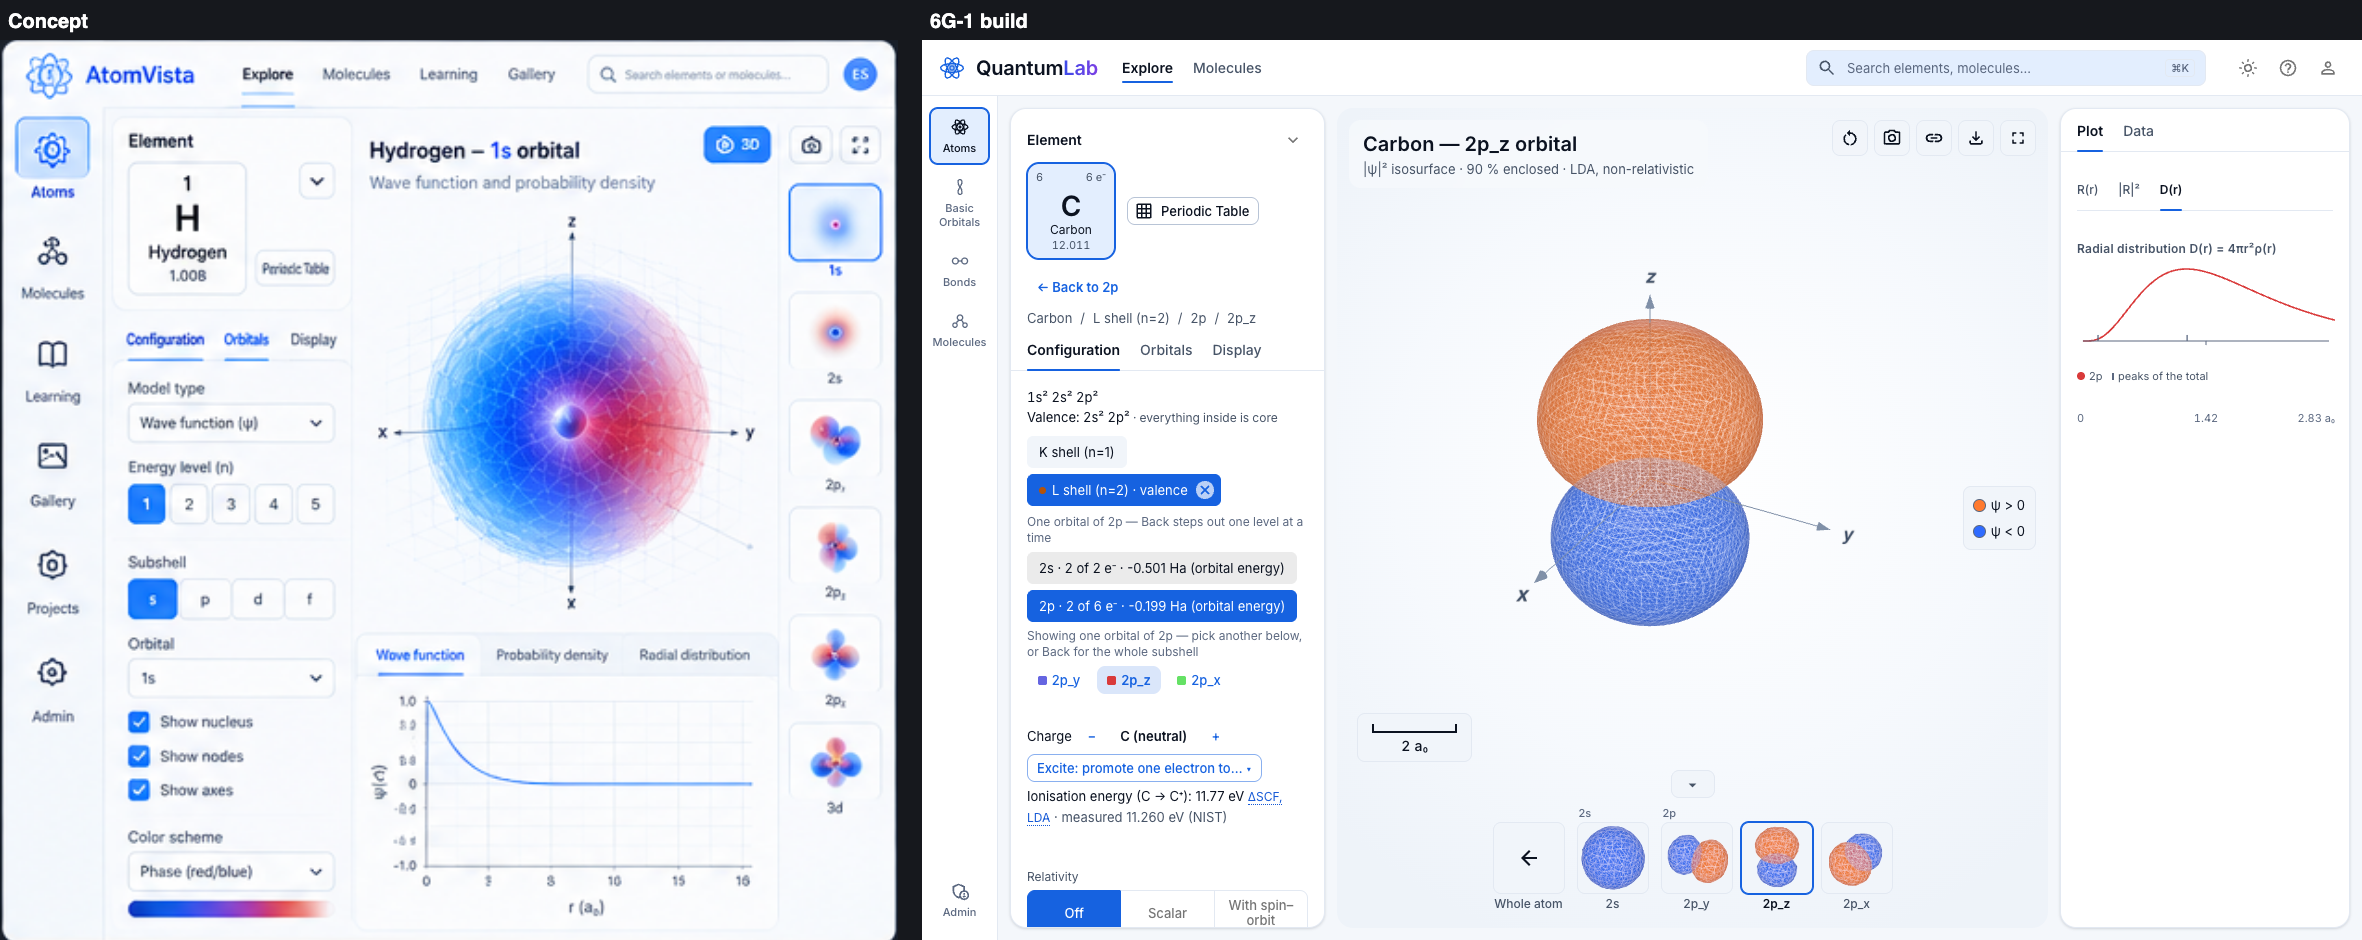
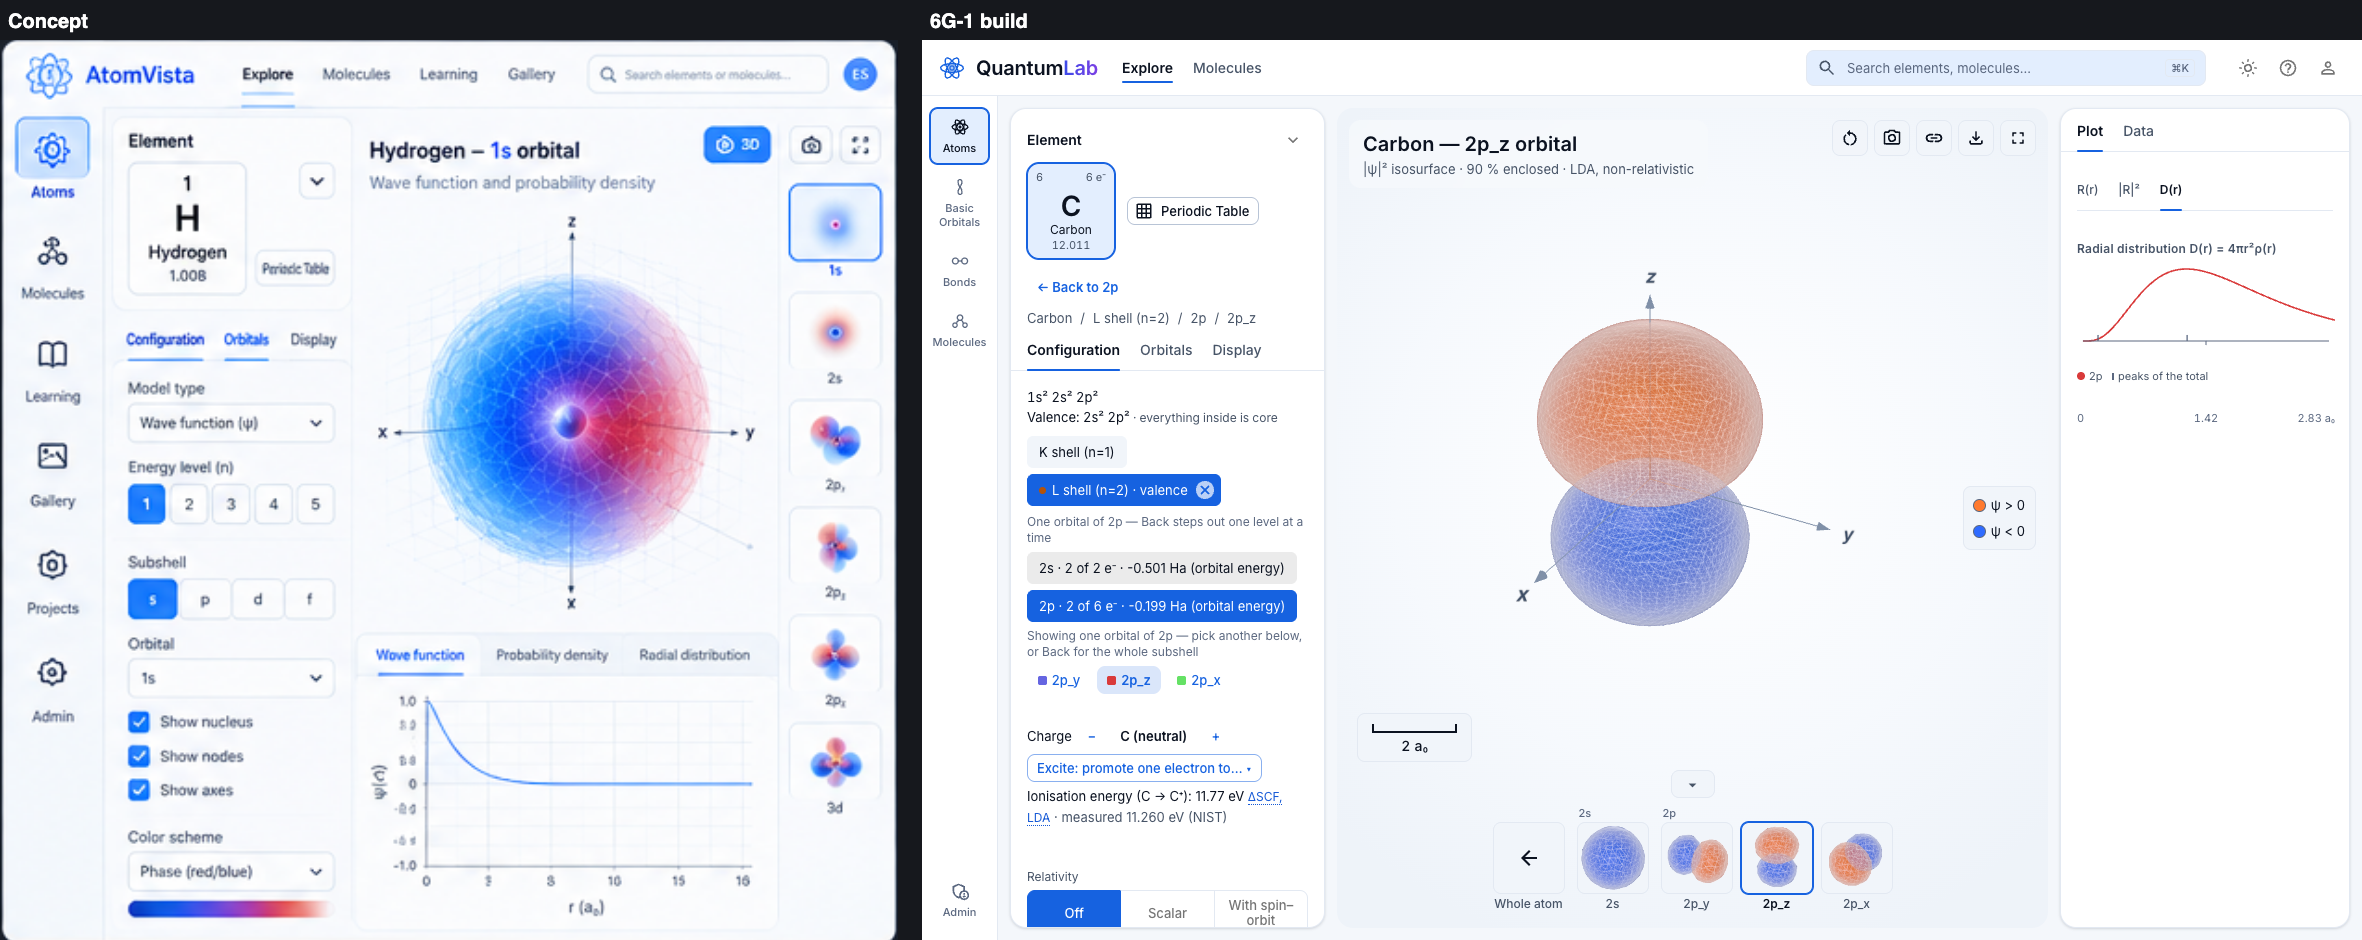
docs(design): 6G-1 composites re-taken after review fix round 1 -- Light Clean closer to Option 2 (Phase 6G-1)
Same tool and composite commands (--gl metal). Light Clean composites changed; Deep Space and whole-atom ones byte-identical. Science text identical to origin/main 15feebc.

Changed region(s): [[0.649, 0.3394, 0.7727, 0.6787], [0.649, 0.8638, 0.8036, 0.9564]]

diff --git a/docs/quantumlab/checks/6G-1/CHECKLIST.md b/docs/quantumlab/checks/6G-1/CHECKLIST.md
@@ -233,3 +233,14 @@ top bar 56, rail 76, Explore 315, inspector 290, phone top bar 52, phone header 
 Inter Variable, title 20/600, nav 14/600, body 13/400. `controls card` reads `missing` on desktop
 shots for the capture-time reason in the preamble. `science_diff.mjs` against `origin/main`
 @ 15feebc (`/tmp/6g1-T19main-metrics.json`; main has not moved): **science text identical to main**.
+
+### Fix round 1 re-take (Task 20a review)
+
+Re-taken 2026-10-13 at commit `43725bd`: thumbnails follow the main view's committed opacity, and
+the Glow lights are per theme. Light Clean is now shaded by its lights, with no emissive crutch,
+and is paler toward the edge with a thin ink outline, closer to Option 2's see-through sphere.
+Deep Space is unchanged. All 14 composites were rebuilt from fresh `--gl metal` shots
+(`/tmp/6g1-20a-fix1-*` desktop, `/tmp/6g1-20a-fix1p-*` phone), with the same commands as above.
+The Deep Space and whole-atom composites came out byte-identical to the previous re-take. 12/12
+shots `settled=true`, `webglCanvases=1`, `errors=0`, tokens ΔE₀₀ 0, boxes exact.
+`science_diff.mjs` against `origin/main` @ 15feebc: **science text identical to main**.
